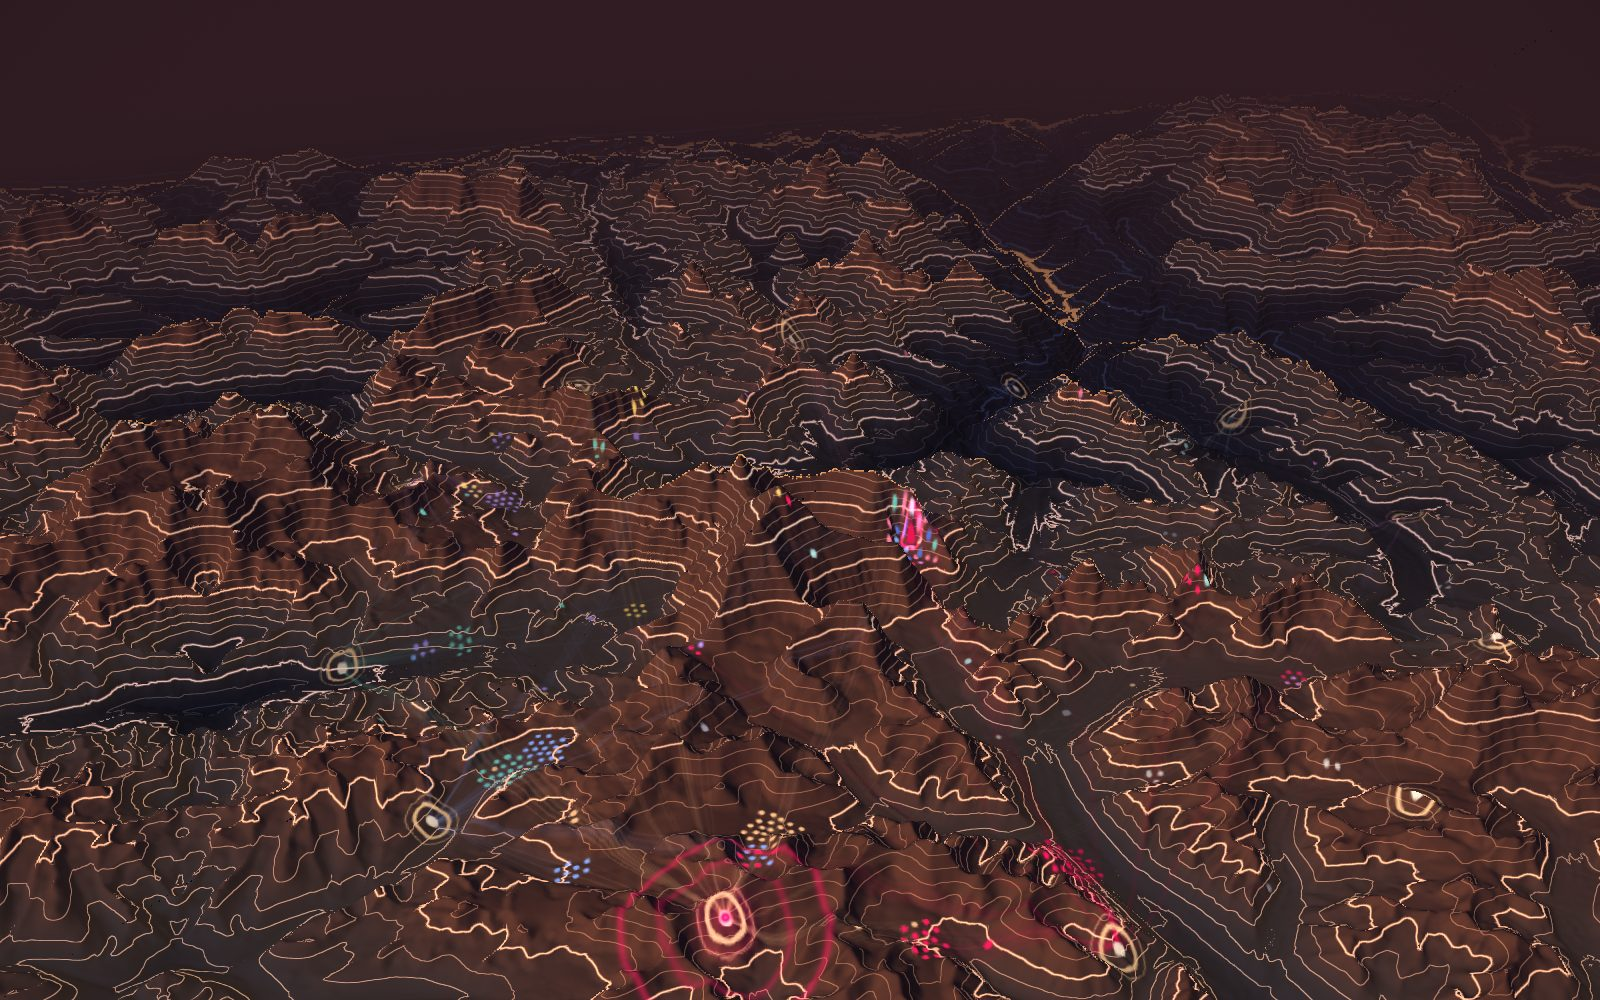
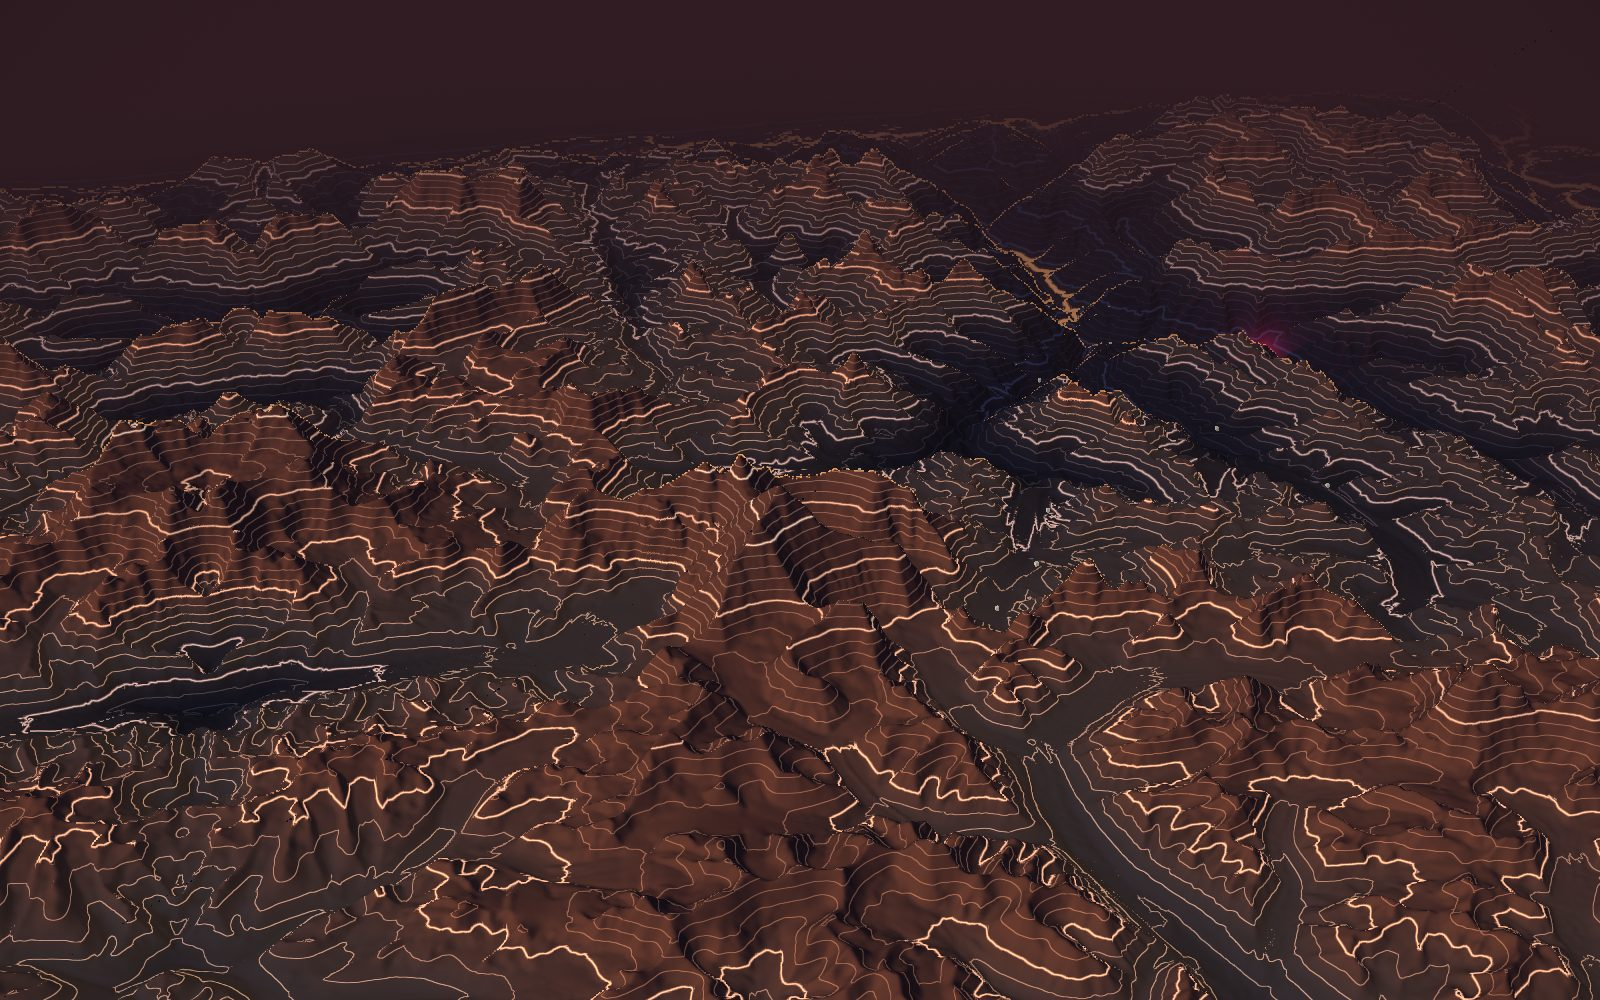
Bases sur 12 lieux réels du Khumbu (petits cubes ivoire en 3D), circuit logique, nom du lieu à l'approche de l'hélicoptère
Claude-Session: https://claude.ai/code/session_01MR9Yxqy6gzE7gk1EEN9t1v

diff --git a/index.html b/index.html
@@ -106,7 +106,7 @@
   .sans3d canvas#topo{background:#04070F url(assets/fond.jpg) center/cover no-repeat}
   /* Bases : noms sur le relief et fiche au survol */
   .bases{position:absolute;inset:0;z-index:2;pointer-events:none;overflow:hidden}
-  .base-nom{position:absolute;left:0;top:0;opacity:0;white-space:nowrap;font-size:8.5px;letter-spacing:.32em;text-transform:uppercase;color:rgba(255,236,212,.62);
+  .base-nom{position:absolute;left:0;top:0;opacity:0;white-space:nowrap;font-size:8.5px;letter-spacing:.32em;text-transform:uppercase;color:rgba(255,240,222,.9);
     text-shadow:0 1px 8px rgba(4,7,15,.95),0 0 2px rgba(4,7,15,.9);transition:opacity .4s;will-change:transform}
   .scene.sur-base{cursor:pointer}
   .carte-base{position:absolute;left:0;top:0;z-index:5;display:flex;align-items:center;gap:12px;pointer-events:none;opacity:0;transition:opacity .25s;padding:10px 16px 10px 12px;
@@ -116,6 +116,7 @@
   .carte-base .cb-icone svg{display:block;width:44px;height:37px}
   .carte-base .cb-tete{font-size:9px;letter-spacing:.3em;font-weight:600;color:var(--or)}
   .carte-base .cb-nom{color:#fff;font-size:13px;margin:1px 0 2px}
+  .carte-base .cb-sujet{font-size:10.5px;color:rgba(247,243,236,.7);margin-bottom:3px}
   .carte-base .cb-det{font-size:10.5px;letter-spacing:.08em}
   .carte-base .cb-det b{color:#fff;font-weight:600}
   @media (max-width:700px){.base-nom{font-size:7.5px;letter-spacing:.22em}}
@@ -186,7 +187,7 @@
     <p>Chaque ligne est une courbe de niveau, comme sur une carte de montagne : une ligne tous les 200 m d’altitude, une ligne plus marquée tous les 1 000 m.</p>
     <h2>Le lever du jour</h2>
     <p>À l’aube, en haute montagne, la lumière touche d’abord les plus hauts sommets puis descend lentement le long des pentes. La page reprend ce moment : les courbes s’éclairent des sommets de plus de 8 000 m vers les vallées, qui restent dans l’ombre bleue de la nuit. La caméra descend ensuite vers le massif et tourne lentement autour de l’Everest.</p>
-    <p>Une courbe dorée parcourt ensuite le massif, du plus haut sommet vers les vallées, en suivant une même altitude. Douze bases forment un anneau autour du massif : ce sont les grands sujets du podcast Finscale, édité par GOKYO. Un point rose, comme un hélicoptère, fait le tour des bases et va chercher à chacune l’un de ses invités ; la fiche en haut à gauche reprend le numéro et le titre de l’épisode (les mesures d’expédition sont fictives). Un clic sur un refuge indique le nombre d’invités de la base. En survolant le relief (ou en le touchant sur un téléphone), l’altitude du point ou le nom du sommet s’affiche. On peut faire tourner la vue en la faisant glisser, et zoomer avec la molette ou en pinçant l’écran ; un double-clic rétablit la vue d’origine.</p>
+    <p>Une courbe dorée parcourt ensuite le massif, du plus haut sommet vers les vallées, en suivant une même altitude. Douze bases sont posées sur des lieux réels du Khumbu (Namche Bazaar, Gokyo, le camp de base de l’Everest…), chacune associée à l’un des grands sujets du podcast Finscale, édité par GOKYO. Un point rose, comme un hélicoptère, fait le tour des bases et va chercher à chacune l’un de ses invités ; la fiche en haut à gauche reprend le numéro et le titre de l’épisode (les mesures d’expédition sont fictives). Un clic sur le petit cube d’une base indique son lieu, son sujet et le nombre d’invités. En survolant le relief (ou en le touchant sur un téléphone), l’altitude du point ou le nom du sommet s’affiche. On peut faire tourner la vue en la faisant glisser, et zoomer avec la molette ou en pinçant l’écran ; un double-clic rétablit la vue d’origine.</p>
     <p class="petit">Pour mieux lire les pentes, le relief est exagéré environ 1,5 fois en hauteur. Les couleurs et la lumière sont une interprétation artistique.</p>
     <h2>Données utilisées</h2>
     <p>Modèle numérique de terrain Copernicus DEM GLO-30 (résolution d’environ 30 m), ramené ici à environ 73 m par point. Copernicus DEM GLO-30 © DLR e.V. 2010-2014 et © Airbus Defence and Space GmbH 2014-2018, fourni dans le cadre de COPERNICUS par l’Union européenne et l’ESA ; tous droits réservés.</p>
@@ -204,7 +205,7 @@
     <p>Each line is a contour line, as on a mountain map: one line every 200 m of altitude, a stronger line every 1,000 m.</p>
     <h2>Sunrise</h2>
     <p>At dawn in high mountains, light reaches the highest summits first, then slowly moves down the slopes. The page recreates that moment: the contours light up from the 8,000-metre peaks down towards the valleys, which stay in the blue shadow of night. The camera then descends towards the massif and slowly circles Everest.</p>
-    <p>A golden contour then travels across the massif, from the highest summit down to the valleys, following a single altitude. Twelve bases form a ring around the massif: the main topics of the Finscale podcast, published by GOKYO. A pink dot, like a helicopter, circles the bases and picks up one of its guests at each; the card at the top left shows the episode number and title (expedition readings are fictitious). Click a refuge to see how many guests the base holds. Hover over the terrain (or touch it on a phone) to see the altitude of that point or the name of the summit. Drag to turn the view, and zoom with the scroll wheel or by pinching; double-click to return to the original view.</p>
+    <p>A golden contour then travels across the massif, from the highest summit down to the valleys, following a single altitude. Twelve bases stand on real places in the Khumbu (Namche Bazaar, Gokyo, Everest Base Camp…), each linked to one of the main topics of the Finscale podcast, published by GOKYO. A pink dot, like a helicopter, circles the bases and picks up one of its guests at each; the card at the top left shows the episode number and title (expedition readings are fictitious). Click the small cube of a base to see its place, its topic and how many guests it holds. Hover over the terrain (or touch it on a phone) to see the altitude of that point or the name of the summit. Drag to turn the view, and zoom with the scroll wheel or by pinching; double-click to return to the original view.</p>
     <p class="petit">To make the slopes easier to read, the terrain is exaggerated about 1.5 times vertically. Colours and lighting are an artistic interpretation.</p>
     <h2>Data used</h2>
     <p>Copernicus DEM GLO-30 digital elevation model (about 30 m resolution), resampled here to about 73 m per point. Copernicus DEM GLO-30 © DLR e.V. 2010-2014 and © Airbus Defence and Space GmbH 2014-2018, provided under COPERNICUS by the European Union and ESA; all rights reserved.</p>
@@ -276,7 +277,7 @@
 
   var VS='#version 300 es\nin vec2 a;void main(){gl_Position=vec4(a,0.,1.);}';
   var FS='#version 300 es\nprecision highp float;out vec4 o;\n#define FRAG o\n' + [
-    'uniform vec2 R;uniform float T;uniform sampler2D RELIEF;uniform float SW;uniform float SI;uniform vec2 CP;uniform float CI;uniform float K;uniform vec3 RO;uniform vec3 FW;uniform vec3 RT;uniform vec3 UP;uniform vec3 HP;uniform float HV;uniform vec4 ON;uniform sampler2D MARQ;uniform float MV;uniform vec3 GP;',
+    'uniform vec2 R;uniform float T;uniform sampler2D RELIEF;uniform float SW;uniform float SI;uniform vec2 CP;uniform float CI;uniform float K;uniform vec3 RO;uniform vec3 FW;uniform vec3 RT;uniform vec3 UP;uniform vec3 HP;uniform float HV;uniform vec4 ON;uniform sampler2D MARQ;uniform float MV;uniform vec3 GP;uniform vec3 BX[12];uniform float BV;',
     'float h21(vec2 p){p=fract(p*vec2(123.34,456.21));p+=dot(p,p+45.32);return fract(p.x*p.y);}',
     // relief réel : carré de 56 km = 4 unités ; h = (altitude - 3000 m) / 4000 m
     'float H(vec2 p){float h=texture(RELIEF,vec2(p.x*.25+.5,.5-p.y*.25)).r;',
@@ -301,6 +302,10 @@
     '  if(hq<0.){touche=true;break;}',
     '  tp=t;t+=max(.003*t,hq*.38);if(t>tmax)break;}',
     ' if(touche){float a0=tp,a1=t;for(int j=0;j<6;j++){float m=.5*(a0+a1);vec3 q=ro+rd*m;if(q.z-Z(q.xy)<0.)a1=m;else a0=m;}t=.5*(a0+a1);}',
+    ' float tb=1e9;vec3 nb=vec3(0.);',
+    ' if(BV>0.){for(int i=0;i<12;i++){vec3 b=BX[i];vec3 hs=vec3(.0042,.0042,.0055);vec3 ce=vec3(b.xy,b.z+hs.z-.001);',
+    '  vec3 iv=1./rd;vec3 t0=(ce-hs-ro)*iv,t1=(ce+hs-ro)*iv;vec3 tn=min(t0,t1),tf=max(t0,t1);float a0=max(max(tn.x,tn.y),tn.z),a1=min(min(tf.x,tf.y),tf.z);',
+    '  if(a1>max(a0,0.)&&a0<tb){tb=a0;nb=-sign(rd)*step(tn.yzx,tn.xyz)*step(tn.zxy,tn.xyz);}}}',
     ' float aube=smoothstep(1.5,9.5,T);',
     ' vec3 c;',
     ' if(touche){',
@@ -343,6 +348,9 @@
     ' if(prof>.05&&HV>0.){vec2 sp=vec2(dot(vh,rt),dot(vh,up))/prof*1.6;float px=length(uv-sp)*min(R.x,R.y)/max(min(R.x,R.y)/900.,1.);',
     '  float cache=(touche&&t<length(vh)-.01)?0.:1.;float pouls=.7+.3*sin(T*5.);',
     '  float balise=pow(.5+.5*sin(T*4.),6.);float pt=clamp(exp(-px*px/16.)*1.6,0.,1.)*cache*HV;c=mix(c,vec3(.99,.08,.35),pt);c+=vec3(.99,.08,.35)*exp(-px/14.)*(.18+.35*balise)*cache*HV;c=mix(c,vec3(1.,.42,.62),clamp(exp(-px*px/2.5),0.,1.)*cache*HV*.8);}',
+    // le cube d'une base, s'il est devant le relief
+    ' if(tb<1e8&&(!touche||tb<t)){vec3 sl=normalize(vec3(.75,.35,.55));float l=.42+.58*max(dot(nb,sl),0.);',
+    '  vec3 cb=vec3(1.,.95,.86)*l;cb=mix(cb,ciel(rd,aube),smoothstep(3.,9.,tb)*k);c=mix(c,cb,BV);}',
     // halo du soleil levant (vue du dessus), puis vignettage
     ' c+=vec3(1.,.55,.32)*aube*(1.-k)*exp(-length(uv-vec2(.95,.75))*1.6)*.35;',
     ' c*=1.-.35*smoothstep(.6,1.4,length(uv*vec2(.8,1.)));',
@@ -356,7 +364,7 @@
   gl.useProgram(pr);
   var buf=gl.createBuffer(); gl.bindBuffer(gl.ARRAY_BUFFER,buf); gl.bufferData(gl.ARRAY_BUFFER,new Float32Array([-1,-1,3,-1,-1,3]),gl.STATIC_DRAW);
   var loc=gl.getAttribLocation(pr,'a'); gl.enableVertexAttribArray(loc); gl.vertexAttribPointer(loc,2,gl.FLOAT,false,0,0);
-  var U={}; ['R','T','SW','SI','CP','CI','K','RO','FW','RT','UP','RELIEF','HP','HV','ON','MARQ','MV','GP'].forEach(function(n){ U[n]=gl.getUniformLocation(pr,n); });
+  var U={}; ['R','T','SW','SI','CP','CI','K','RO','FW','RT','UP','RELIEF','HP','HV','ON','MARQ','MV','GP','BX','BV'].forEach(function(n){ U[n]=gl.getUniformLocation(pr,n); });
 
   // Carte d'altitude réelle (Copernicus DEM, voir tools/relief.py) → texture flottante
   var relief=null;
@@ -497,12 +505,12 @@
       baseAffichee=h;
       if(h){ var en=document.documentElement.lang==='en', n=h.inv.length;
         carteBase.innerHTML='<div class="cb-icone">'+REFUGE+'</div><div class="cb-txt"><div class="cb-tete">'+(en?'BASE ':'BASE ')+esc(h.c)+'</div>'+
-          '<div class="cb-nom">'+esc(en?h.en:h.nom)+'</div><div class="cb-det"><b>'+n+'</b> '+(en?(n>1?'guests':'guest'):(n>1?'invités':'invité'))+'</div></div>'; }
+          '<div class="cb-nom">'+esc(en?h.lieuEn:h.lieu)+'</div><div class="cb-sujet">'+esc(en?h.en:h.nom)+'</div><div class="cb-det"><b>'+n+'</b> '+(en?(n>1?'guests':'guest'):(n>1?'invités':'invité'))+'</div></div>'; }
       carteBase.classList.toggle('vue',!!h);
     }
     if(h&&h.ecran){ var W=cv.clientWidth, w=carteBase.offsetWidth||220, x=h.ecran.X+18, y=h.ecran.Y-28; if(x+w>W-12) x=h.ecran.X-18-w; carteBase.style.transform='translate3d('+x.toFixed(1)+'px,'+Math.max(70,y).toFixed(1)+'px,0)'; }
   }
-  function baseSous(x,y){ var hb=null, dmin=28; ESCALES.forEach(function(h){ if(!h.ecran||h.vis===false) return; var d=Math.hypot(h.ecran.X-x,h.ecran.Y-(y+0)); if(d<dmin){ dmin=d; hb=h; } }); return hb; }
+  function baseSous(x,y){ var hb=null, dmin=22; ESCALES.forEach(function(h){ if(!h.ecran||h.vis===false) return; var d=Math.hypot(h.ecran.X-x,h.ecran.Y-(y+0)); if(d<dmin){ dmin=d; hb=h; } }); return hb; }
   var baseOuverte=null;
   addEventListener('keydown',function(e){ if(e.key==='Escape') baseOuverte=null; });
   function majEtiquette(t,now){
@@ -544,15 +552,20 @@
      Chaque invité est posé sur le relief près des sujets dont il a parlé,
      selon la même règle que la constellation (moyenne pondérée, puis relâchement). */
   var COUL=['#FD145A','#F2B880','#7AA7FF','#5EC4B6','#B18CFF','#FFD166','#FF7A9C','#4B6CD9','#9FD8D2','#E07BE0','#C9C3BB','#8E8A96'];
+  // Douze lieux réels du Khumbu, dans l'ordre du circuit de l'hélicoptère (nom, lat, lon, altitude officielle)
+  var LIEUX=[['Namche Bazaar',27.8057,86.7144,3440],['Thame',27.8340,86.6510,3820],['Machermo',27.9010,86.7130,4470],['Gokyo',27.9530,86.6950,4790],
+    ['Lobuche',27.9480,86.8100,4940],['Gorak Shep',27.9810,86.8290,5164],['Camp de base de l’Everest',28.0026,86.8528,5364,'Everest Base Camp'],
+    ['Chukhung',27.9040,86.8710,4730],['Camp de base d’Island Peak',27.9180,86.9150,5087,'Island Peak Base Camp'],
+    ['Camp de base du Makalu',27.8800,87.0900,4870,'Makalu Base Camp'],['Dingboche',27.8920,86.8310,4410],['Tengboche',27.8361,86.7642,3867]];
   var ESCALES=[], INVITES=[], FSD=null, carteFaite=false;
   fetch('assets/finscale.json?v='+Math.floor(Date.now()/36e5)).then(function(r){ return r.json(); }).then(function(d){ FSD=d; }).catch(function(){});
   function latlon(x,y){ return [27.975+y*KM/110.95, 86.83+x*KM/(111.32*Math.cos(27.975*Math.PI/180))]; }
   function construireCarte(){
     if(carteFaite||!FSD||!relief) return carteFaite;
-    var S=FSD.sujets, n=S.length, cx=.32, cy=.04, rx=1.38, ry=1.28, parC={};
-    ESCALES=S.map(function(su,i){
-      var a=Math.PI/2-i*2*Math.PI/n, x=cx+rx*Math.cos(a), y=cy+ry*Math.sin(a), ll=latlon(x,y);
-      var b={c:su.c,nom:su.fr,en:su.en,x:x,y:y,lat:ll[0],lon:ll[1],col:COUL[i%COUL.length],inv:[],der:''};
+    var S=FSD.sujets, n=S.length, cx=.32, cy=.04, parC={};
+    ESCALES=S.slice(0,LIEUX.length).map(function(su,i){
+      var L=LIEUX[i], q=xy(L[1],L[2]);
+      var b={c:su.c,nom:su.fr,en:su.en,lieu:L[0],lieuEn:L[4]||L[0],alt:L[3],x:q[0],y:q[1],lat:L[1],lon:L[2],col:COUL[i%COUL.length],inv:[],der:''};
       parC[su.c]=b; return b; });
     var graine=7; function alea(){ graine=(graine*16807)%2147483647; return (graine-1)/2147483646; }
     INVITES=FSD.invites.map(function(p){
@@ -566,19 +579,9 @@
       var g={p:p,cpt:cpt,best:best,col:best?parC[best].col:'#9a97a0',tx:x,ty:y,x:x+Math.cos(ang)*d0,y:y+Math.sin(ang)*d0,r:.0085+.0025*Math.min(3,p.e.length-1)};
       if(best){ parC[best].inv.push(g); var dd=(p.e[0]||{}).d||''; if(dd>parC[best].der) parC[best].der=dd; }
       return g; });
-    // texture : les refuges (1024 px pour 56 km)
-    var N=1024, cvs=document.createElement('canvas'); cvs.width=cvs.height=N; var g2=cvs.getContext('2d');
-    function P(x,y){ return [(x*.25+.5)*N,(.5-y*.25)*N]; }
-    ESCALES.forEach(function(h){ var a=P(h.x,h.y), c=4;      // un petit refuge : carré clair cerclé d'or
-      g2.fillStyle='rgba(4,7,15,.55)'; g2.fillRect(a[0]-c-2,a[1]-c-2,2*c+4,2*c+4);
-      g2.fillStyle='#FFE9CF'; g2.fillRect(a[0]-c,a[1]-c,2*c,2*c);
-      g2.strokeStyle='#F2C08A'; g2.lineWidth=1.4; g2.strokeRect(a[0]-c-2.5,a[1]-c-2.5,2*c+5,2*c+5); });
-    var tx=gl.createTexture(); gl.activeTexture(gl.TEXTURE1); gl.bindTexture(gl.TEXTURE_2D,tx);
-    gl.pixelStorei(gl.UNPACK_PREMULTIPLY_ALPHA_WEBGL,false);
-    gl.texImage2D(gl.TEXTURE_2D,0,gl.RGBA,gl.RGBA,gl.UNSIGNED_BYTE,cvs); gl.generateMipmap(gl.TEXTURE_2D);
-    gl.texParameteri(gl.TEXTURE_2D,gl.TEXTURE_MIN_FILTER,gl.LINEAR_MIPMAP_LINEAR); gl.texParameteri(gl.TEXTURE_2D,gl.TEXTURE_MAG_FILTER,gl.LINEAR);
-    gl.texParameteri(gl.TEXTURE_2D,gl.TEXTURE_WRAP_S,gl.CLAMP_TO_EDGE); gl.texParameteri(gl.TEXTURE_2D,gl.TEXTURE_WRAP_T,gl.CLAMP_TO_EDGE);
-    gl.uniform1i(U.MARQ,1); gl.activeTexture(gl.TEXTURE0);
+    // cubes : un petit volume ivoire posé sur le relief à chaque base
+    var bx=[]; ESCALES.forEach(function(h){ bx.push(h.x,h.y,Zjs(h.x,h.y)); }); while(bx.length<36) bx.push(99,99,0);
+    gl.uniform3fv(U.BX,new Float32Array(bx));
     // étiquettes des bases
     ESCALES.forEach(function(h){ var e=document.createElement('span'); e.className='base-nom'; e.setAttribute('aria-hidden','true'); calqueBases.appendChild(e); h.el=e; });
     nomsBases();
@@ -588,7 +591,7 @@
   }
   var calqueBases=document.createElement('div'); calqueBases.className='bases'; calqueBases.setAttribute('aria-hidden','true');
   document.querySelector('.scene').insertBefore(calqueBases,document.querySelector('.voile'));
-  function nomsBases(){ var en=document.documentElement.lang==='en'; ESCALES.forEach(function(h){ if(h.el) h.el.textContent=en?h.en:h.nom; }); }
+  function nomsBases(){ var en=document.documentElement.lang==='en'; ESCALES.forEach(function(h){ if(h.el) h.el.textContent=(en?h.lieuEn:h.lieu)+' · '+h.alt.toLocaleString(en?'en-GB':'fr-FR').replace(/[,\s]/g,'\u202f')+' m'; }); }
   function piocher(h){
     if(!h.file.length){ h.file=h.inv.slice(); for(var i=h.file.length-1;i>0;i--){ var j=Math.floor(Math.random()*(i+1)), t=h.file[i]; h.file[i]=h.file[j]; h.file[j]=t; } }
     return h.file.pop()||null;
@@ -604,17 +607,19 @@
     for(var i=1;i<=36;i++){ var u=i/36*Math.min(L,4)/L, px=x+dx*u, py=y+dy*u, pz=z+dz*u; if(pz<Zjs(px,py)-.002) return false; }
     return true;
   }
-  var vuBases=0, langBases='';
+  var vuBases=0, langBases='', heliEtat=null;
   function majBases(t){
     if(!carteFaite) return;
     if(document.documentElement.lang!==langBases){ langBases=document.documentElement.lang; nomsBases(); }
-    var o=ss(8,10.5,t);
+    var hel=heliEtat, cible=null, o=0;
+    if(hel&&hel.vers&&hel.vers.prog>.6){ cible=hel.vers.escale; o=ss(.6,.85,hel.vers.prog); }
+    if(hel&&hel.pose){ cible=hel.pose.escale; o=1-ss(SOL-1.2,SOL-.2,hel.pose.g); }
     ESCALES.forEach(function(h,i){
       var z=Zjs(h.x,h.y)+.012, q=projeter(h.x,h.y,z);
       if(((vuBases+i)%4)===0) h.vis=visibleDepuis(h.x,h.y,z);
       if(!q||q.X<-80||q.X>cv.clientWidth+80){ h.el.style.opacity=0; h.ecran=null; return; }
-      h.ecran=q; h.el.style.transform='translate3d('+(q.X).toFixed(1)+'px,'+(q.Y-16).toFixed(1)+'px,0) translate(-50%,-100%)';
-      h.el.style.opacity=(o*(h.vis===false?.15:1)).toFixed(2);
+      h.ecran=q; h.el.style.transform='translate3d('+(q.X).toFixed(1)+'px,'+(q.Y-22).toFixed(1)+'px,0) translate(-50%,-100%)';
+      h.el.style.opacity=(h===cible?o:0).toFixed(2);
     });
     vuBases++;
   }
@@ -643,7 +648,7 @@
       var x=v.A.x+(v.B.x-v.A.x)*e, y=v.A.y+(v.B.y-v.A.y)*e, z=v.za+(v.zb-v.za)*e+v.H*bosse;
       z=Math.max(z,Zjs(x,y)+.004);
       // l'onde du dernier atterrissage finit de s'étendre pendant le décollage
-      var r=(SOL+tau)/ (SOL+2.5); return {p:[x,y,z],v:visible,onde:[v.A.x,v.A.y,.02+.33*Math.min(1,r),Math.max(0,1-r)*.0]};
+      var r=(SOL+tau)/ (SOL+2.5); return {vers:{escale:v.B,prog:s0},p:[x,y,z],v:visible,onde:[v.A.x,v.A.y,.02+.33*Math.min(1,r),Math.max(0,1-r)*.0]};
     }
     var g=tau-v.duree, r2=g/5, tour=Math.floor((t-DEBUT_VOL)/CYCLE);
     return {pose:{escale:v.B,g:g,n:tour*VOLS.length+VOLS.indexOf(v),idx:(VOLS.indexOf(v)+1)%VOLS.length},p:[v.B.x,v.B.y,v.zb],v:visible,onde:[v.B.x,v.B.y,.015+.34*r2,Math.pow(Math.max(0,1-r2),1.3)*ss(0,.25,g)]};
@@ -689,9 +694,9 @@
     var en=document.documentElement.lang==='en', E=pose.escale, v=piocher(E); invitePris=v;
     var ep=v&&v.p.e[0]||{}, num=ep.n||String(BASE+pose.n);
     var m1=choisir(MESURES.length,recentsM,6);
-    var alt=Math.round(Hjs(E.x,E.y)*4000+3000), etape=pose.idx+1;
+    var alt=E.alt, etape=pose.idx+1;
     fiche.innerHTML='<div class="m-tete"><span class="m-id">OP-'+esc(num)+'</span><span class="m-type">'+(en?'STAGE ':'ÉTAPE ')+etape+' / '+ESCALES.length+'</span></div>'+
-      '<div class="m-base">Base '+esc(en?E.en:E.nom)+'</div>'+
+      '<div class="m-base">'+esc(en?E.lieuEn:E.lieu)+' · Base '+esc(en?E.en:E.nom)+'</div>'+
       (v?'<div class="m-titre">« '+esc(titreSeul(ep.t,v.p.n))+' »</div><div class="m-nom">'+esc(v.p.n)+(v.p.s?' <span>· '+esc(v.p.s)+'</span>':'')+'</div>':'')+
       '<div class="m-coord">'+dms(E.lat,'N','S')+' · '+dms(E.lon,'E','W')+' · '+alt.toLocaleString(en?'en-GB':'fr-FR').replace(/[,\s]/g,' ')+' m</div>'+
       '<div class="m-det">'+MESURES[m1](en)+'</div>'+
@@ -720,7 +725,7 @@
     gl.uniform2f(U.R,cv.width,cv.height); gl.uniform1f(U.T,t); gl.uniform1f(U.K,kCam);
     gl.uniform3fv(U.RO,cam.ro); gl.uniform3fv(U.FW,cam.fw); gl.uniform3fv(U.RT,cam.rt); gl.uniform3fv(U.UP,cam.up);
     gl.uniform1f(U.SW,sw[0]); gl.uniform1f(U.SI,sw[1]);
-    var hel=helico(t); majFiche(hel); gl.uniform1f(U.MV,carteFaite?ss(6.5,10,t):0); majBases(t); if(hel){ gl.uniform3fv(U.HP,hel.p); gl.uniform1f(U.HV,hel.v); gl.uniform4fv(U.ON,hel.onde); } else gl.uniform1f(U.HV,0);
+    var hel=helico(t); heliEtat=hel; majFiche(hel); gl.uniform1f(U.MV,0); gl.uniform1f(U.BV,carteFaite?ss(7,10,t):0); majBases(t); if(hel){ gl.uniform3fv(U.HP,hel.p); gl.uniform1f(U.HV,hel.v); gl.uniform4fv(U.ON,hel.onde); } else gl.uniform1f(U.HV,0);
     majEtiquette(t,now);
     gl.drawArrays(gl.TRIANGLES,0,3);
     requestAnimationFrame(frame);
